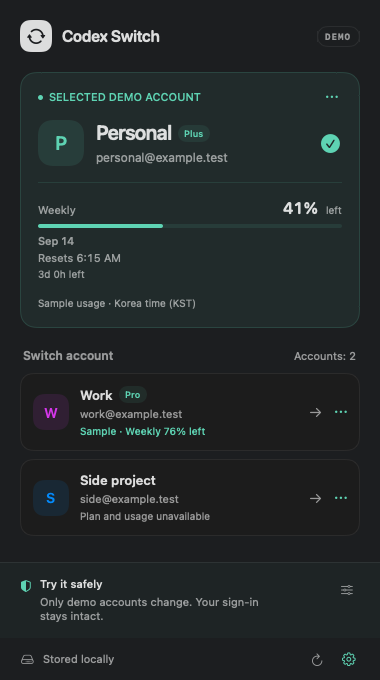
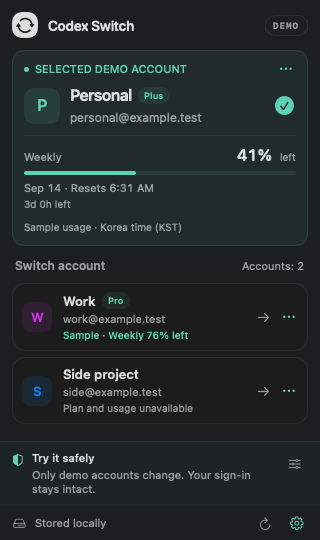
style: compact menu-bar panel layout

diff --git a/Sources/CodexSwitch/Panel.swift b/Sources/CodexSwitch/Panel.swift
@@ -2,6 +2,11 @@ import SwiftUI
 import AppKit
 import SwitchCore
 
+enum PanelLayout {
+    static let width: CGFloat = 320
+    static let height: CGFloat = 540
+}
+
 enum NoticeKind { case neutral, success, error }
 
 private enum Palette {
@@ -27,13 +32,13 @@ struct Panel: View {
     var body: some View {
         VStack(spacing: 0) {
             header
-            VStack(alignment: .leading, spacing: 20) {
+            VStack(alignment: .leading, spacing: 12) {
                 if let active { currentCard(active) }
                 else {
                     VStack(alignment: .leading, spacing: 8) {
                         Label(L10n.text("저장된 현재 계정 없음"), systemImage: "person.crop.circle.badge.questionmark").font(.system(size: 14, weight: .semibold))
                         Text(L10n.text("로그인한 계정을 저장하면 여기에 표시됩니다.")).font(.system(size: 12)).foregroundStyle(.secondary)
-                    }.padding(18).frame(maxWidth: .infinity, alignment: .leading).background(Palette.card, in: RoundedRectangle(cornerRadius: 16))
+                    }.padding(12).frame(maxWidth: .infinity, alignment: .leading).background(Palette.card, in: RoundedRectangle(cornerRadius: 12))
                 }
                 VStack(alignment: .leading, spacing: 10) {
                     HStack {
@@ -57,13 +62,13 @@ struct Panel: View {
                         Label(L10n.text("현재 로그인 계정 추가"), systemImage: "plus").font(.system(size: 13, weight: .medium)).frame(maxWidth: .infinity).padding(.vertical, 5)
                     }.buttonStyle(.bordered).disabled(model.busy)
                 }
-            }.padding(.horizontal, 20).padding(.bottom, 20)
+            }.padding(.horizontal, 12).padding(.bottom, 12)
             Spacer(minLength: 0)
             if model.isDemo { demoArea }
             footer
         }
-        .frame(width: 380)
-        .frame(minHeight: 680 + (showDemoSettings ? 44 : 0) + (model.busy || model.notice != .neutral || model.recovery ? 56 : 0))
+        .frame(width: PanelLayout.width)
+        .frame(minHeight: PanelLayout.height + (showDemoSettings ? 44 : 0) + (model.busy || model.notice != .neutral || model.recovery ? 80 : 0))
         .background(Palette.canvas)
         .tint(Palette.accent)
     }
@@ -72,19 +77,19 @@ struct Panel: View {
         HStack(spacing: 10) {
             Image(systemName: "arrow.triangle.2.circlepath")
                 .font(.system(size: 15, weight: .semibold)).foregroundStyle(Palette.canvas)
-                .frame(width: 32, height: 32).background(Color.primary, in: RoundedRectangle(cornerRadius: 10))
-            Text("Codex Switch").font(.system(size: 16, weight: .semibold, design: .rounded)).tracking(-0.4)
+                .frame(width: 26, height: 26).background(Color.primary, in: RoundedRectangle(cornerRadius: 10))
+            Text("Codex Switch").font(.system(size: 14, weight: .semibold, design: .rounded)).tracking(-0.4)
             Spacer()
             if model.isDemo {
                 Text("DEMO").font(.system(size: 9, weight: .bold, design: .monospaced)).tracking(1)
                     .foregroundStyle(.secondary).padding(.horizontal, 8).padding(.vertical, 5)
                     .overlay(Capsule().strokeBorder(Palette.line)).accessibilityLabel(L10n.text("데모 모드"))
             }
-        }.padding(20)
+        }.padding(12)
     }
 
     private func currentCard(_ profile: Profile) -> some View {
-        VStack(alignment: .leading, spacing: 16) {
+        VStack(alignment: .leading, spacing: 10) {
             HStack(spacing: 6) {
                 Circle().fill(Palette.accent).frame(width: 5, height: 5)
                 Text(model.isDemo ? L10n.text("현재 선택한 데모 계정") : L10n.text("현재 로그인 계정"))
@@ -92,11 +97,11 @@ struct Panel: View {
                 Spacer()
                 options(profile)
             }
-            HStack(spacing: 12) {
+            HStack(spacing: 10) {
                 avatar(profile, active: true)
                 VStack(alignment: .leading, spacing: 5) {
                     HStack(spacing: 6) {
-                        Text(profile.name).font(.system(size: 20, weight: .semibold)).tracking(-0.5).lineLimit(1).help(profile.name)
+                        Text(profile.name).font(.system(size: 16, weight: .semibold)).tracking(-0.5).lineLimit(1).help(profile.name)
                         planBadge(profile)
                     }
                     Text(profile.email).font(.system(size: 12)).foregroundStyle(.secondary).lineLimit(1).help(profile.email)
@@ -117,19 +122,19 @@ struct Panel: View {
             } else {
                 Text(L10n.text("사용량 미확인 · 실시간 조회 연결 전")).font(.system(size: 11)).foregroundStyle(.secondary)
             }
-        }.padding(18)
-            .background(Palette.accent.opacity(0.07), in: RoundedRectangle(cornerRadius: 16))
-            .overlay(RoundedRectangle(cornerRadius: 16).strokeBorder(Palette.accent.opacity(0.15)))
+        }.padding(12)
+            .background(Palette.accent.opacity(0.07), in: RoundedRectangle(cornerRadius: 12))
+            .overlay(RoundedRectangle(cornerRadius: 12).strokeBorder(Palette.accent.opacity(0.15)))
     }
 
     private var accountRows: some View {
-        VStack(spacing: 8) {
+        VStack(spacing: 6) {
             ForEach(others) { profile in
                 HStack(spacing: 0) {
                     Button { model.switchTo(profile) } label: {
                         HStack(spacing: 11) {
                             avatar(profile, active: false)
-                            VStack(alignment: .leading, spacing: 4) {
+                            VStack(alignment: .leading, spacing: 3) {
                                 HStack(spacing: 6) {
                                     Text(profile.name).font(.system(size: 13, weight: .semibold)).foregroundStyle(.primary).lineLimit(1)
                                     planBadge(profile)
@@ -143,7 +148,7 @@ struct Panel: View {
                             }
                             Spacer(minLength: 4)
                             Image(systemName: "arrow.right").font(.system(size: 12, weight: .medium)).foregroundStyle(.secondary)
-                        }.padding(.leading, 13).padding(.vertical, 13).padding(.trailing, 8).contentShape(Rectangle())
+                        }.padding(.leading, 10).padding(.vertical, 9).padding(.trailing, 8).contentShape(Rectangle())
                     }.buttonStyle(AccountButtonStyle()).disabled(model.busy || model.recovery)
                         .help(L10n.format("%@ 계정으로 전환", String(profile.name)))
                         .accessibilityLabel(L10n.format("%@, %@, 계정 전환", String(profile.name), String(profile.email)))
@@ -158,9 +163,9 @@ struct Panel: View {
         let colors: [Color] = [Palette.accent, colorScheme == .dark ? .purple : .indigo, .orange, .blue]
         let index = Int(profile.id.prefix(2), radix: 16) ?? 0
         let color = active ? Palette.accent : colors[index % colors.count]
-        return Text(String(profile.name.prefix(1))).font(.system(size: active ? 19 : 14, weight: .semibold))
-            .foregroundStyle(color).frame(width: active ? 46 : 36, height: active ? 46 : 36)
-            .background(color.opacity(0.11), in: RoundedRectangle(cornerRadius: active ? 14 : 11))
+        return Text(String(profile.name.prefix(1))).font(.system(size: active ? 16 : 13, weight: .semibold))
+            .foregroundStyle(color).frame(width: active ? 36 : 30, height: active ? 36 : 30)
+            .background(color.opacity(0.11), in: RoundedRectangle(cornerRadius: active ? 10 : 9))
             .accessibilityHidden(true)
     }
 
@@ -191,10 +196,8 @@ struct Panel: View {
                         .frame(width: geometry.size.width * (remaining ?? 0) / 100)
                 }.frame(height: 4).accessibilityHidden(true)
                 VStack(alignment: .leading, spacing: 3) {
-                    Text(schedule.dateLabel).font(.system(size: 11, weight: .medium))
-                    if !schedule.timeLabel.isEmpty {
-                        Text(schedule.timeLabel).font(.system(size: 11)).monospacedDigit()
-                    }
+                    Text([schedule.dateLabel, schedule.timeLabel].filter { !$0.isEmpty }.joined(separator: " · "))
+                        .font(.system(size: 11)).monospacedDigit()
                     if !schedule.remainingLabel.isEmpty {
                         Text(schedule.remainingLabel).font(.system(size: 10))
                             .foregroundStyle(schedule.needsRefresh ? Palette.warning : .secondary)
@@ -244,9 +247,9 @@ struct Panel: View {
         VStack(alignment: .leading, spacing: 12) {
             HStack(alignment: .top, spacing: 8) {
                 Image(systemName: "shield.lefthalf.filled").font(.system(size: 12)).foregroundStyle(Palette.accent).padding(.top, 2)
-                VStack(alignment: .leading, spacing: 4) {
+                VStack(alignment: .leading, spacing: 3) {
                     Text(L10n.text("안심하고 둘러보세요")).font(.system(size: 11, weight: .medium))
-                    Text(L10n.text("샘플 계정만 바뀌며 실제 로그인은 유지됩니다.")).font(.system(size: 11)).foregroundStyle(.secondary)
+                    Text(L10n.text("샘플 계정만 바뀌며 실제 로그인은 유지됩니다.")).font(.system(size: 11)).foregroundStyle(.secondary).fixedSize(horizontal: false, vertical: true)
                 }
                 Spacer(minLength: 0)
                 Button { showDemoSettings.toggle() } label: {
@@ -260,7 +263,7 @@ struct Panel: View {
                     ForEach(DemoScenario.allCases) { Text($0.title).tag($0) }
                 }.font(.system(size: 11)).disabled(model.busy)
             }
-        }.padding(.horizontal, 20).padding(.vertical, 15)
+        }.padding(.horizontal, 12).padding(.vertical, 10)
             .background(Palette.accent.opacity(0.035))
             .overlay(alignment: .top) { Rectangle().fill(Palette.line).frame(height: 1) }
     }
@@ -287,7 +290,7 @@ struct Panel: View {
                 Button(L10n.text("Codex Switch 종료")) { NSApp.terminate(nil) }
             } label: { Image(systemName: "gearshape").frame(width: 26, height: 26) }
                 .menuStyle(.borderlessButton).menuIndicator(.hidden).fixedSize().help(L10n.text("앱 설정")).accessibilityLabel(L10n.text("앱 설정")).disabled(model.busy)
-        }.font(.system(size: 12)).foregroundStyle(.secondary).padding(.horizontal, 20).padding(.vertical, 8)
+        }.font(.system(size: 12)).foregroundStyle(.secondary).padding(.horizontal, 12).padding(.vertical, 4)
     }
 }
 

diff --git a/Sources/CodexSwitch/App.swift b/Sources/CodexSwitch/App.swift
@@ -26,7 +26,7 @@ final class AppDelegate: NSObject, NSApplicationDelegate {
             NSApp.appearance = NSAppearance(named: dark ? .darkAqua : .aqua)
             let expanded = CommandLine.arguments.contains("--settings-preview")
             let hosting = NSHostingView(rootView: Panel(model: model, expanded: expanded).background(Color(nsColor: .windowBackgroundColor)))
-            let window = NSWindow(contentRect: NSRect(x: 0, y: 0, width: 380, height: state || expanded ? 740 : 680), styleMask: [.borderless], backing: .buffered, defer: false)
+            let window = NSWindow(contentRect: NSRect(x: 0, y: 0, width: PanelLayout.width, height: PanelLayout.height + (state ? 80 : 0) + (expanded ? 44 : 0)), styleMask: [.borderless], backing: .buffered, defer: false)
             window.contentView = hosting
             hosting.layoutSubtreeIfNeeded()
             if let bitmap = hosting.bitmapImageRepForCachingDisplay(in: hosting.bounds) {
@@ -51,10 +51,10 @@ final class AppDelegate: NSObject, NSApplicationDelegate {
             .sink { [weak self] _ in self?.updateMenuTitle() }.store(in: &subscriptions)
         updateMenuTitle()
         popover.behavior = .transient
-        popover.contentSize = NSSize(width: 380, height: 680)
+        popover.contentSize = NSSize(width: PanelLayout.width, height: PanelLayout.height)
         popover.contentViewController = NSHostingController(rootView: Panel(model: model))
         if CommandLine.arguments.contains("--window") && model.isDemo {
-            let window = NSWindow(contentRect: NSRect(x: 0, y: 0, width: 380, height: 680), styleMask: [.titled, .closable], backing: .buffered, defer: false)
+            let window = NSWindow(contentRect: NSRect(x: 0, y: 0, width: PanelLayout.width, height: PanelLayout.height), styleMask: [.titled, .closable], backing: .buffered, defer: false)
             window.title = L10n.text("Codex Switch · 데모")
             window.contentViewController = NSHostingController(rootView: Panel(model: model))
             window.center()

diff --git a/CHANGELOG.md b/CHANGELOG.md
@@ -2,6 +2,8 @@
 
 ## Unreleased
 
+- Compacted the menu-bar panel from 380 × 680 to 320 × 540 points with tighter cards, smaller avatars, and inline reset dates.
+
 - Removed the five-hour sample window from demo accounts and refreshed screenshots; demo quota is weekly-only.
 - Prepared a current-account read client with a fake transport, response/identity validation, and stale-cache handling; live transport remains disconnected.
 - Added weekly-first ordering, demo-labeled menu-bar quota, and dismissible notices after a source-based competitor review.
